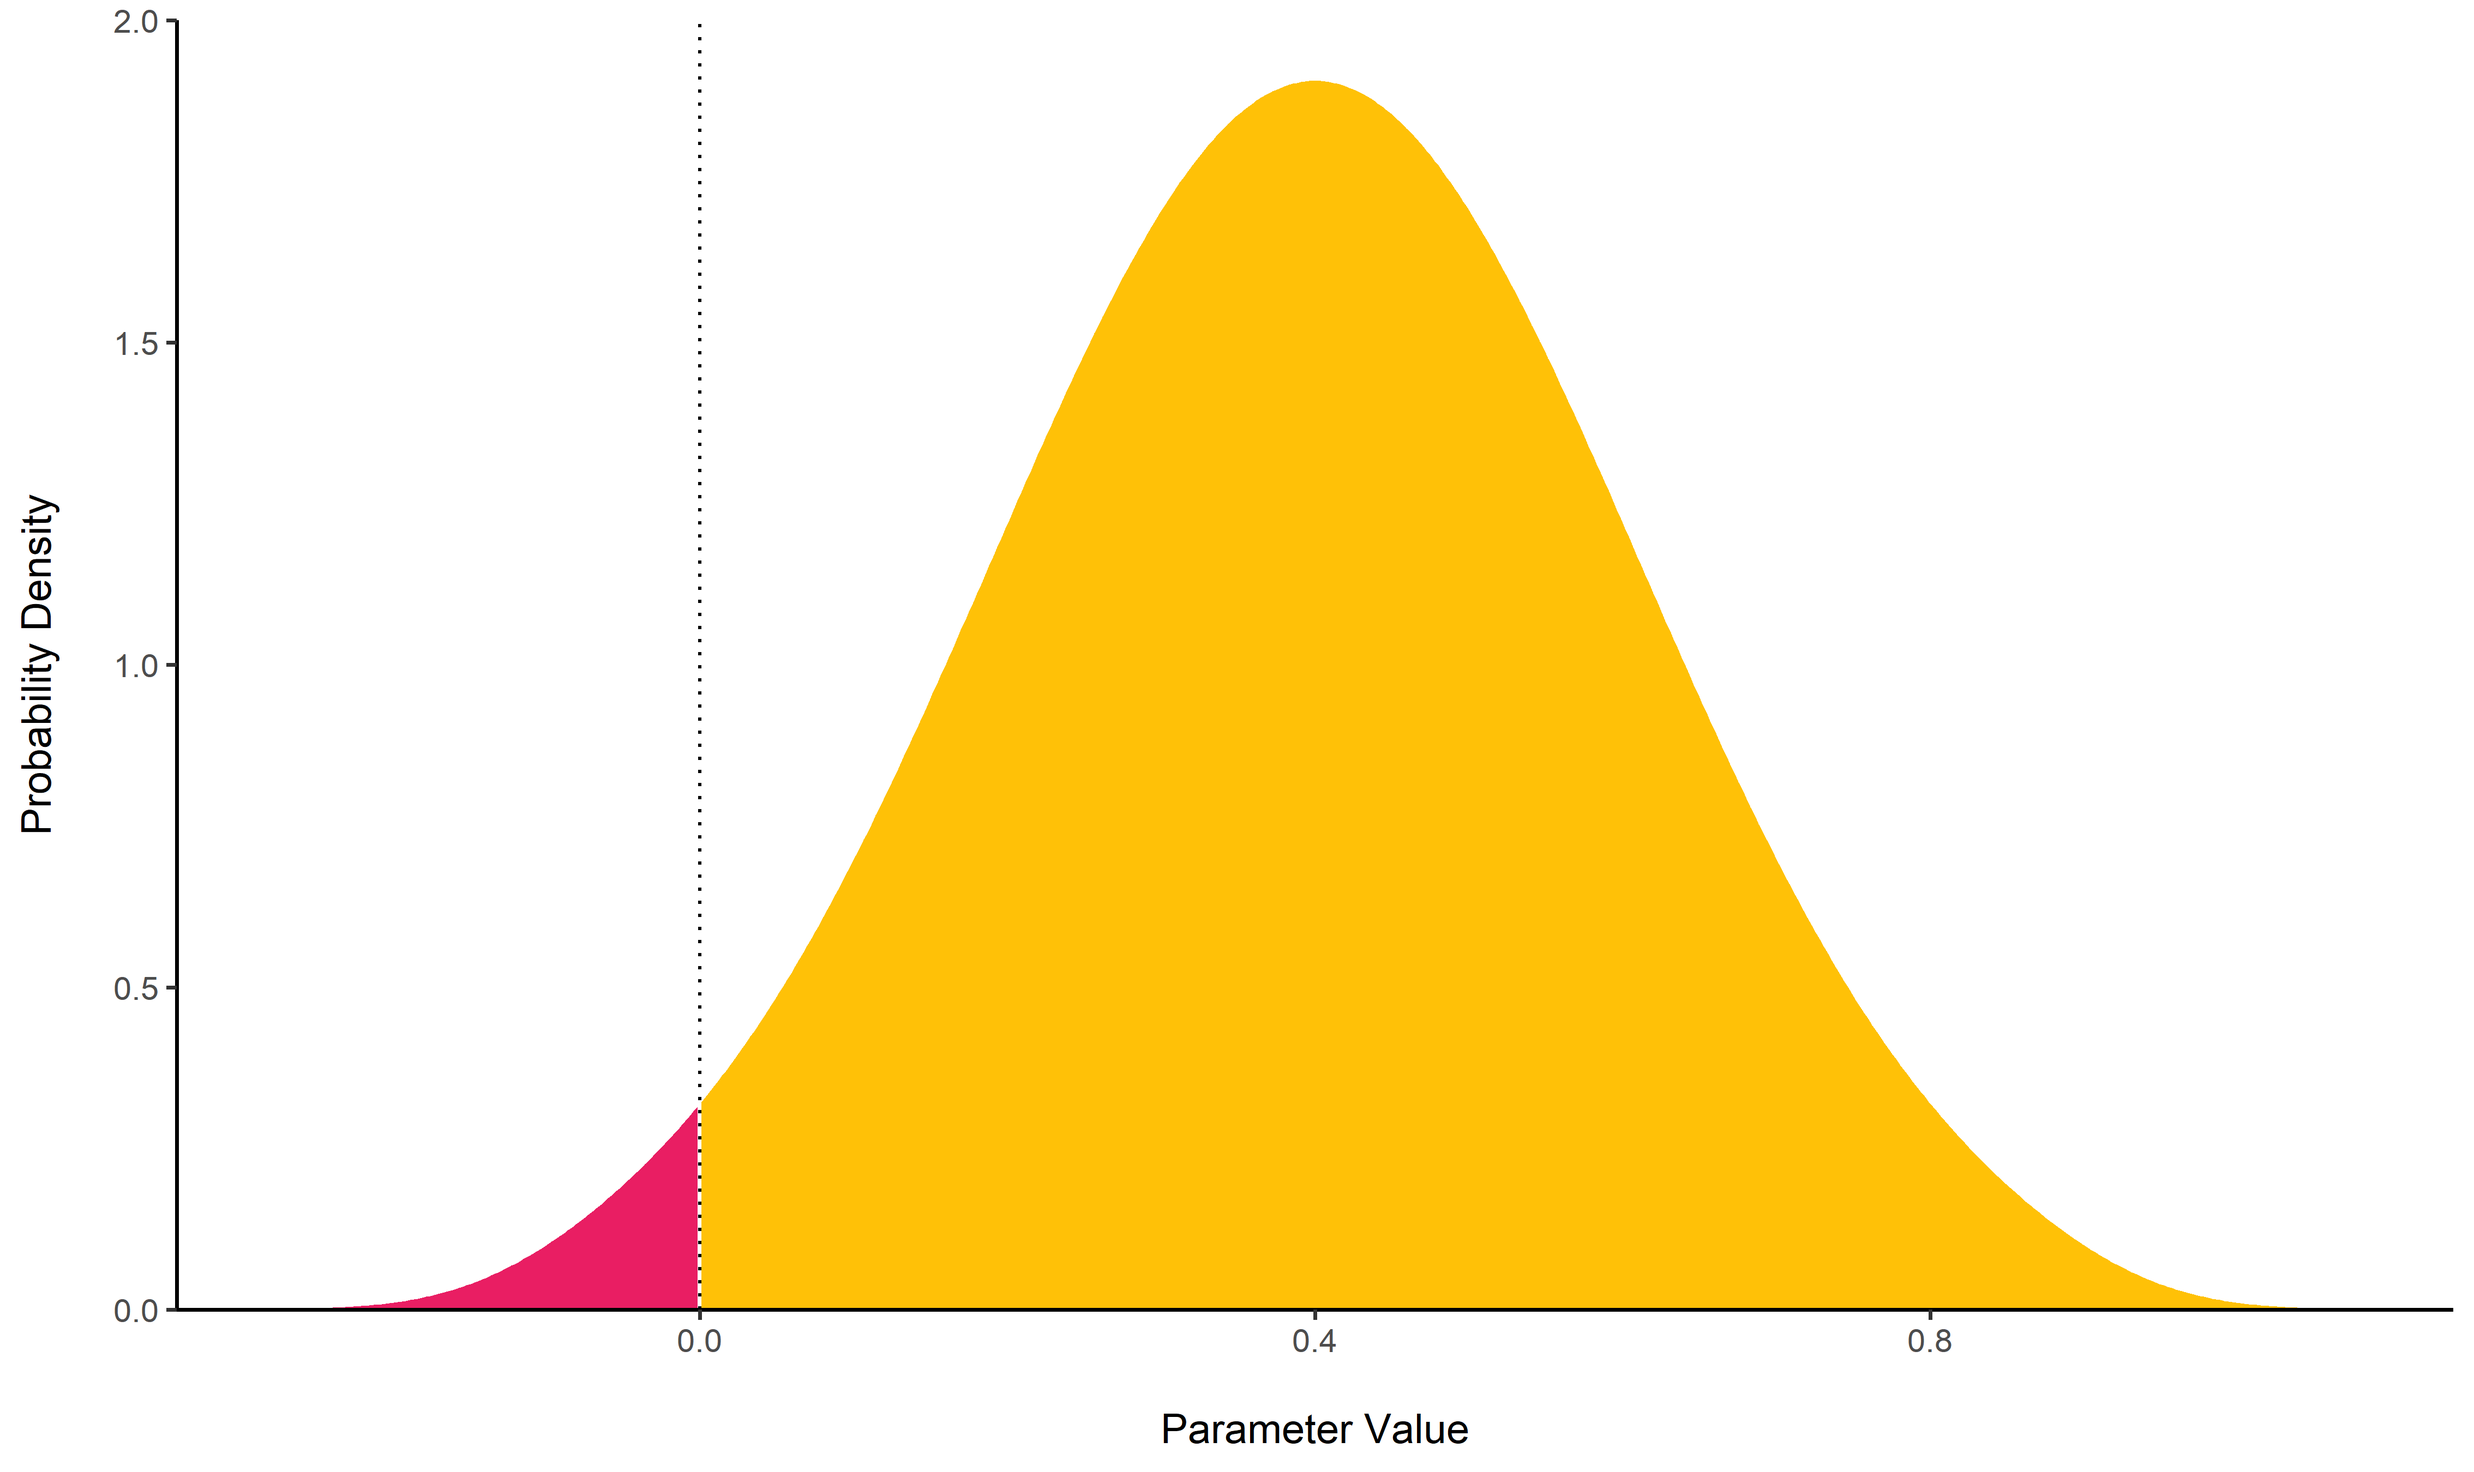
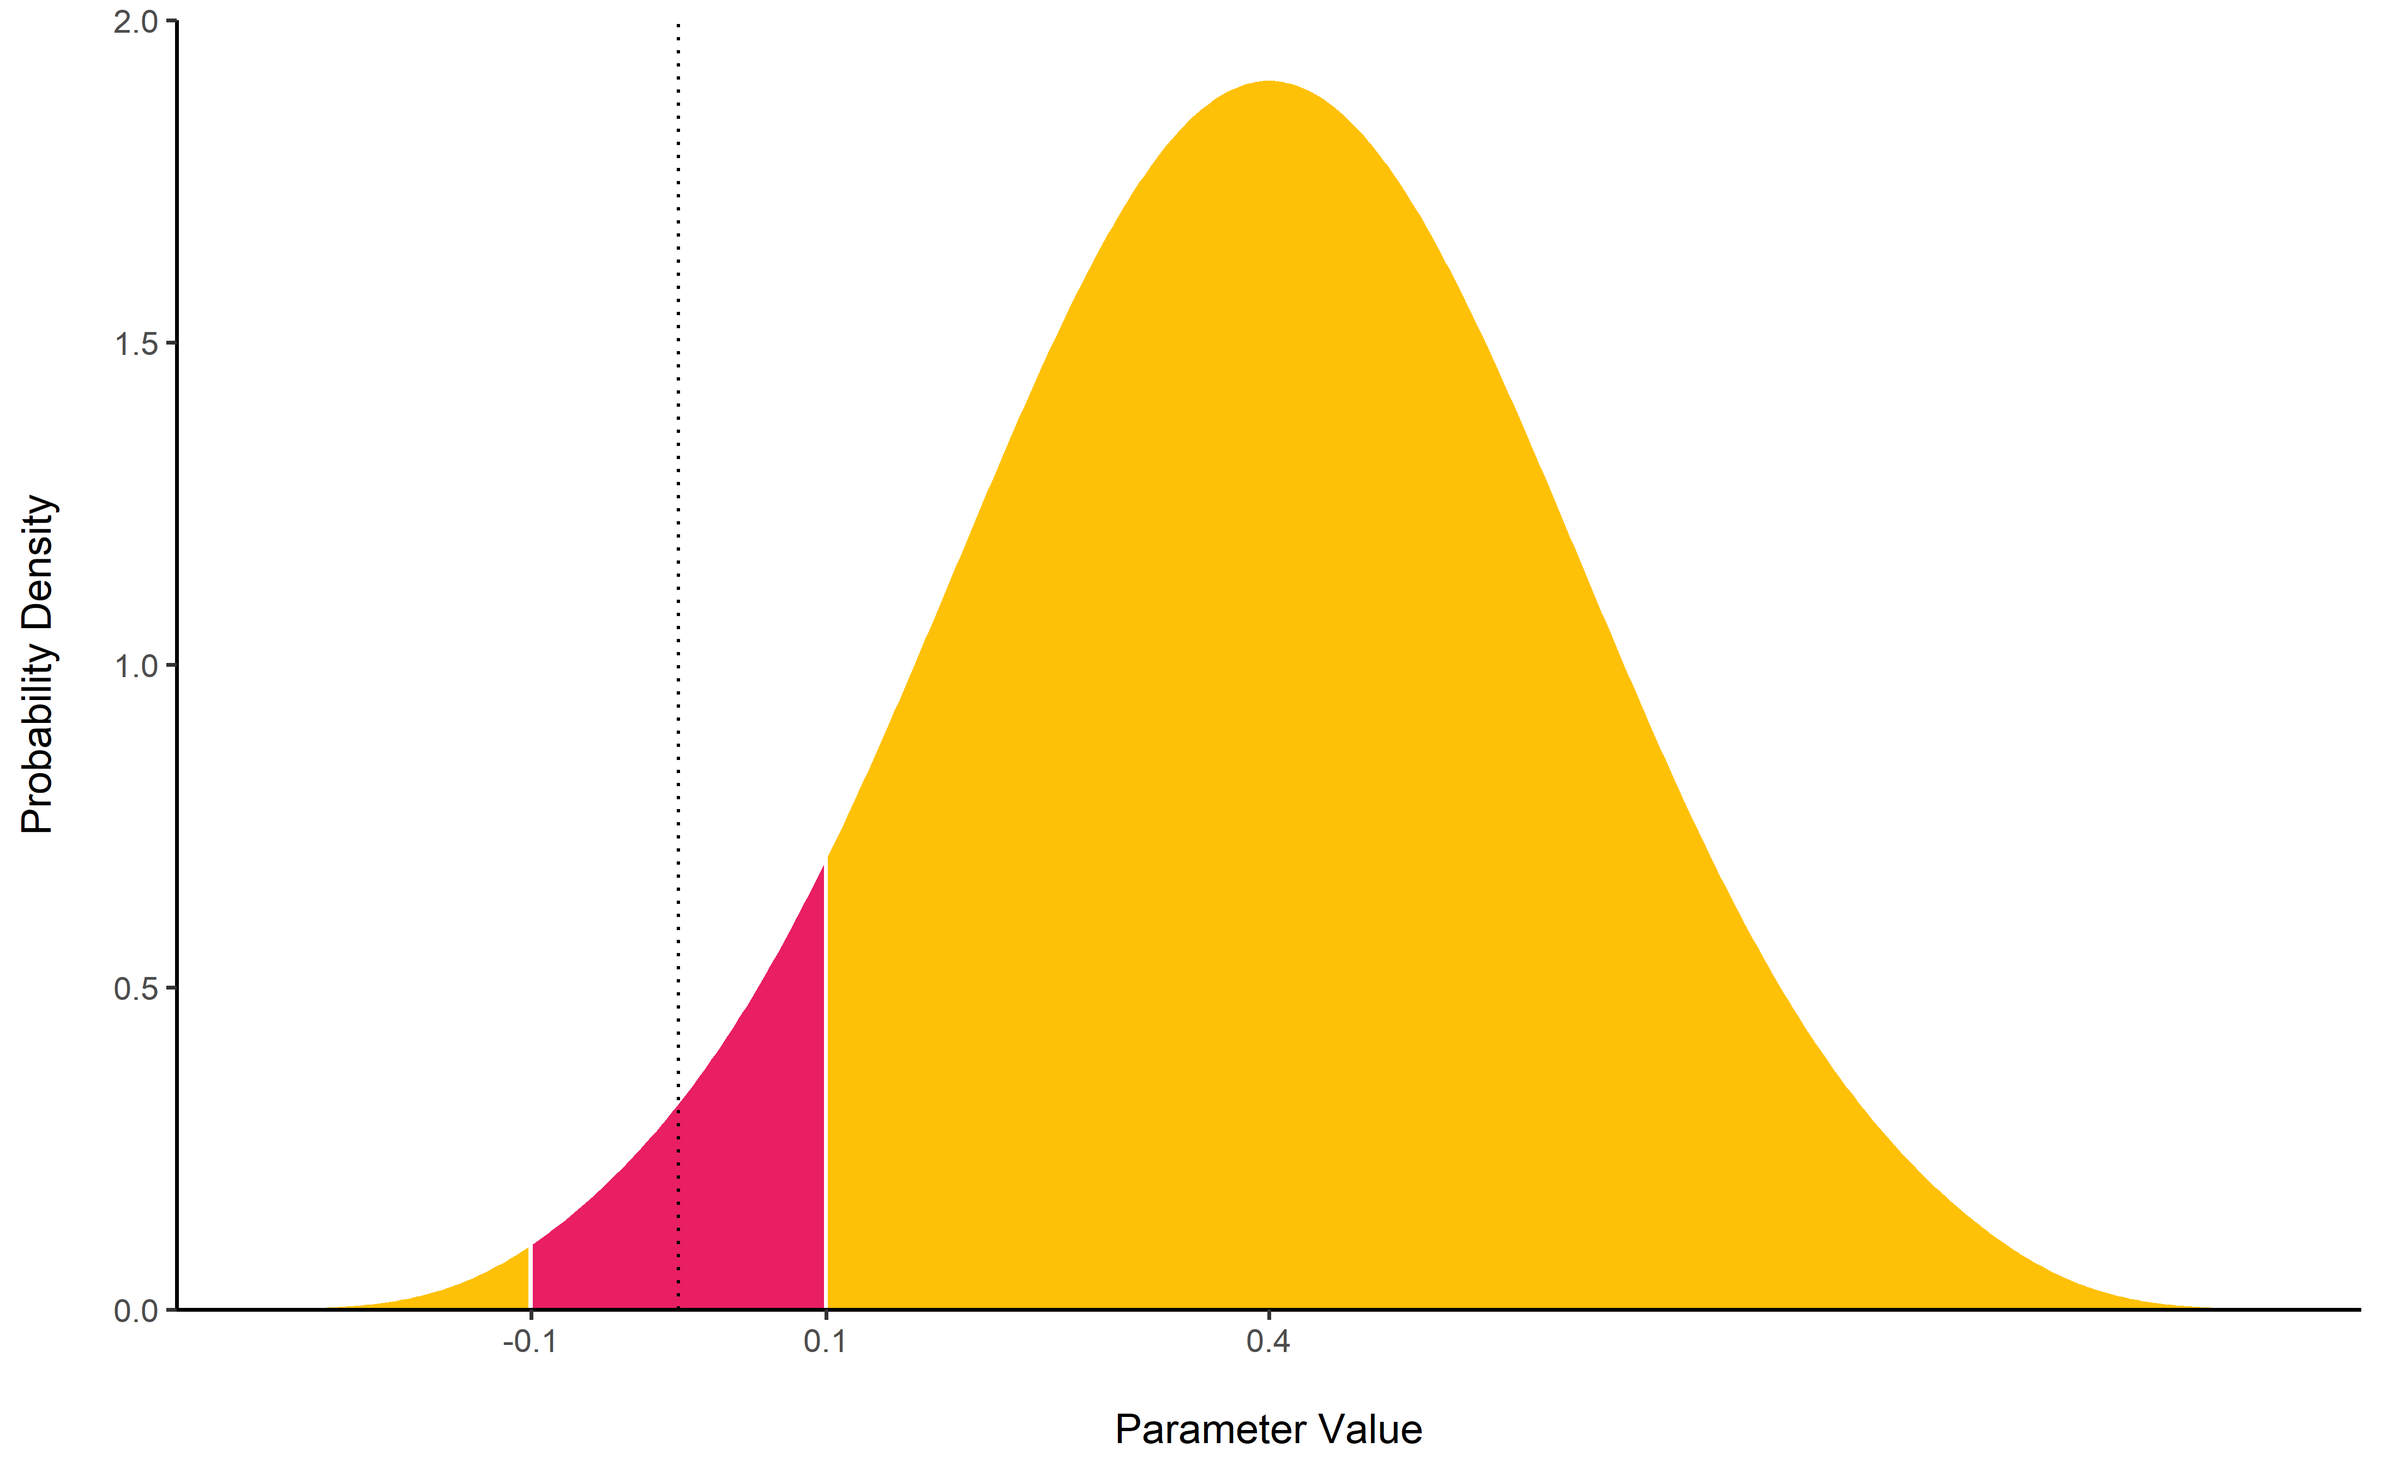
first version of new README
started with the README #262

diff --git a/README.md b/README.md
@@ -79,11 +79,50 @@ check-out these vignettes:
 
 # Features
 
-The following figures are meant to illustrate the (statistical) concepts
-behind the functions. However, for most functions, `plot()`-methods are
-available from the [see-package](http://easystats.github.io/see).
+In the Bayesian framework, parameters are estimated in a probabilistic
+fashion as *distributions*. These distributions can be summarised and
+described by **reporting 4 types of indices**:
 
-## Describing the Posterior Distribution
+  - [**Centrality**](https://easystats.github.io/bayestestR/articles/indicesEstimationComparison.html)
+      - `mean()`, `median()` or
+        [**`map_estimate()`**](https://easystats.github.io/bayestestR/reference/map_estimate.html)
+        for an approximation of the mode.
+      - [**`point_estimate()`**](https://easystats.github.io/bayestestR/reference/point_estimate.html)
+        can be used to get them at once and can be run on models.
+  - [**Uncertainty**](https://easystats.github.io/bayestestR/articles/credible_interval.html)
+      - [**`hdi()`**](https://easystats.github.io/bayestestR/reference/hdi.html)
+        for *Highest Density Interval (HDI)* or
+        [**`eti()`**](https://easystats.github.io/bayestestR/reference/eti.html)
+        for *Equal-Tailed Intervals (ETI)*.
+      - [**`ci()`**](https://easystats.github.io/bayestestR/reference/ci.html)
+        for a more general method for Confidence and Credible Intervals
+        (CI).
+  - [**Effect
+    Existence**](https://easystats.github.io/bayestestR/articles/indicesExistenceComparison.html):
+    whether an effect is not different from 0.
+      - [**`p_direction()`**](https://easystats.github.io/bayestestR/reference/p_direction.html)
+        for a Bayesian equivalent of the frequentist *p*-value (see
+        [Makowski et
+        al., 2019](https://doi.org/10.3389/fpsyg.2019.02767))
+      - [**`p_pointnull()`**](https://easystats.github.io/bayestestR/reference/p_map.html)
+        represents the odds of null hypothesis (*h0 = 0*) compared to
+        the most likely hypothesis (the MAP).
+      - [**`bf_pointnull()`**](https://easystats.github.io/bayestestR/reference/bayesfactor_parameters.html)
+        for a classic *Bayes Factor (BF)* assessing the likelihood of
+        effect presence against its absence (*h0 = 0*).
+  - [**Effect
+    Significance**](https://easystats.github.io/bayestestR/articles/indicesExistenceComparison.html):
+    whether the effect can be considered as non-negligible.
+      - [**`p_rope()`**](https://easystats.github.io/bayestestR/reference/p_rope.html)
+        is the probability of the effect falling inside a [*Region of
+        Practical Equivalence
+        (ROPE)*](https://easystats.github.io/bayestestR/articles/region_of_practical_equivalence.html).
+      - [**`bf_rope()`**](https://easystats.github.io/bayestestR/reference/bayesfactor_parameters.html)
+        computes a Bayes factor against the null as defined by a region
+        (the ROPE).
+      - [**`p_significance()`**](https://easystats.github.io/bayestestR/reference/p_significance.html)
+        that combines a region of equivalence and the probability of
+        direction.
 
 [**`describe_posterior()`**](https://easystats.github.io/bayestestR/reference/describe_posterior.html)
 is the master function with which you can compute all of the indices
@@ -92,32 +131,45 @@ cited below at once.
 ``` r
 describe_posterior(rnorm(1000))
 ##   Parameter Median CI CI_low CI_high   pd ROPE_CI ROPE_low ROPE_high
-## 1 Posterior  0.037 89   -1.5     1.7 0.52      89     -0.1       0.1
+## 1 Posterior -0.021 89   -1.6     1.5 0.50      89     -0.1       0.1
 ##   ROPE_Percentage
-## 1           0.092
+## 1            0.11
 ```
+
+*bayestestR* also includes [**many other
+features**](https://easystats.github.io/bayestestR/reference/index.html)
+useful for your Bayesian analsyes. Here are some more examples:
 
 ## Point-estimates
 
-### MAP Estimate
-
-[**`map_estimate()`**](https://easystats.github.io/bayestestR/reference/map_estimate.html)
-find the **Highest Maximum A Posteriori (MAP)** estimate of a posterior,
-*i.e.*, the value associated with the highest probability density (the
-“peak” of the posterior distribution). In other words, it is an
-estimation of the *mode* for continuous parameters.
-
 ``` r
-posterior <- distribution_normal(100, 0.4, 0.2)
-map_estimate(posterior)
-## MAP = 0.40
+library(bayestestR)
+
+posterior <- distribution_gamma(10000, 1.5)  # Generate a skewed distribution
+centrality <- point_estimate(posterior)  # Get indices of centrality
+centrality
+## # Point Estimates
+## 
+##  Median Mean  MAP
+##     1.2  1.5 0.51
 ```
 
-![](man/figures/unnamed-chunk-5-1.png)<!-- -->
+As for other [**easystats**](https://github.com/easystats) packages,
+`plot()` methods are available from the
+[**see**](http://easystats.github.io/see) package for many functions:
 
-## Uncertainty
+![](man/figures/unnamed-chunk-6-1.png)<!-- -->
 
-### Highest Density Interval (HDI) and Equal-Tailed Interval (ETI)
+While the **median** and the **mean** are available through base R
+functions,
+[**`map_estimate()`**](https://easystats.github.io/bayestestR/reference/map_estimate.html)
+in *bayestestR* can be used to directly find the **Highest Maximum A
+Posteriori (MAP)** estimate of a posterior, *i.e.*, the value associated
+with the highest probability density (the “peak” of the posterior
+distribution). In other words, it is an estimation of the *mode* for
+continuous parameters.
+
+## Uncertainty (CI)
 
 [**`hdi()`**](https://easystats.github.io/bayestestR/reference/hdi.html)
 computes the **Highest Density Interval (HDI)** of a posterior
@@ -156,9 +208,39 @@ eti(posterior, ci = .89)
 ##  [0.42, 7.27]
 ```
 
-![](man/figures/unnamed-chunk-7-1.png)<!-- -->
+![](man/figures/unnamed-chunk-8-1.png)<!-- -->
 
-## Null-Hypothesis Significance Testing (NHST)
+## Existence and Significance Testing
+
+### Probability of Direction (*p*d)
+
+[**`p_direction()`**](https://easystats.github.io/bayestestR/reference/p_direction.html)
+computes the **Probability of Direction** (***p*d**, also known as the
+Maximum Probability of Effect - *MPE*). It varies between 50% and 100%
+(*i.e.*, `0.5` and `1`) and can be interpreted as the probability
+(expressed in percentage) that a parameter (described by its posterior
+distribution) is strictly positive or negative (whichever is the most
+probable). It is mathematically defined as the proportion of the
+posterior distribution that is of the median’s sign. Although
+differently expressed, this index is fairly similar (*i.e.*, is strongly
+correlated) to the frequentist ***p*-value**.
+
+**Relationship with the p-value**: In most cases, it seems that the *pd*
+corresponds to the frequentist one-sided *p*-value through the formula
+`p-value = (1-pd/100)` and to the two-sided *p*-value (the most commonly
+reported) through the formula `p-value = 2*(1-pd/100)`. Thus, a `pd` of
+`95%`, `97.5%` `99.5%` and `99.95%` corresponds approximately to a
+two-sided *p*-value of respectively `.1`, `.05`, `.01` and `.001`. See
+the [*reporting
+guidelines*](https://easystats.github.io/bayestestR/articles/guidelines.html).
+
+``` r
+posterior <- distribution_normal(100, 0.4, 0.2)
+p_direction(posterior)
+## pd = 98.00%
+```
+
+![](man/figures/unnamed-chunk-10-1.png)<!-- -->
 
 ### ROPE
 
@@ -197,56 +279,6 @@ rope(posterior, range = c(-0.1, 0.1))
 ##       1.11 %
 ```
 
-![](man/figures/unnamed-chunk-9-1.png)<!-- -->
-
-### Equivalence test
-
-[**`equivalence_test()`**](https://easystats.github.io/bayestestR/reference/equivalence_test.html)
-is a **Test for Practical Equivalence** based on the *“HDI+ROPE decision
-rule”* (Kruschke, 2018) to check whether parameter values should be
-accepted or rejected against an explicitly formulated “null hypothesis”
-(*i.e.*, a
-[ROPE](https://easystats.github.io/bayestestR/reference/rope.html)).
-
-``` r
-posterior <- distribution_normal(100, 0.4, 0.2)
-equivalence_test(posterior, range = c(-0.1, 0.1))
-## # Test for Practical Equivalence
-## 
-##   ROPE: [-0.10 0.10]
-## 
-##         H0 inside ROPE     89% HDI
-##  Undecided      1.11 % [0.09 0.71]
-```
-
-### Probability of Direction (*p*d)
-
-[**`p_direction()`**](https://easystats.github.io/bayestestR/reference/p_direction.html)
-computes the **Probability of Direction** (***p*d**, also known as the
-Maximum Probability of Effect - *MPE*). It varies between 50% and 100%
-(*i.e.*, `0.5` and `1`) and can be interpreted as the probability
-(expressed in percentage) that a parameter (described by its posterior
-distribution) is strictly positive or negative (whichever is the most
-probable). It is mathematically defined as the proportion of the
-posterior distribution that is of the median’s sign. Although
-differently expressed, this index is fairly similar (*i.e.*, is strongly
-correlated) to the frequentist ***p*-value**.
-
-**Relationship with the p-value**: In most cases, it seems that the *pd*
-corresponds to the frequentist one-sided *p*-value through the formula
-`p-value = (1-pd/100)` and to the two-sided *p*-value (the most commonly
-reported) through the formula `p-value = 2*(1-pd/100)`. Thus, a `pd` of
-`95%`, `97.5%` `99.5%` and `99.95%` corresponds approximately to a
-two-sided *p*-value of respectively `.1`, `.05`, `.01` and `.001`. See
-the [*reporting
-guidelines*](https://easystats.github.io/bayestestR/articles/guidelines.html).
-
-``` r
-posterior <- distribution_normal(100, 0.4, 0.2)
-p_direction(posterior)
-## pd = 98.00%
-```
-
 ![](man/figures/unnamed-chunk-12-1.png)<!-- -->
 
 ### Bayes Factor
@@ -275,7 +307,7 @@ bayesfactor_parameters(posterior, prior, direction = "two-sided", null = 0)
 ## # Bayes Factor (Savage-Dickey density ratio)
 ## 
 ##    BF
-##  2.04
+##  1.48
 ## 
 ## * Evidence Against The Null: [0]
 ```
@@ -291,23 +323,6 @@ from or closer to the null.*</sup>
 
 For more info, see [the Bayes factors
 vignette](https://easystats.github.io/bayestestR/articles/bayes_factors.html).
-
-### MAP-based *p*-value
-
-[**`p_map()`**](https://easystats.github.io/bayestestR/reference/p_map.html)
-computes a Bayesian equivalent of the p-value, related to the odds that
-a parameter (described by its posterior distribution) has against the
-null hypothesis (*h0*) using Mills’ (2014, 2017) *Objective Bayesian
-Hypothesis Testing* framework. It corresponds to the density value at 0
-divided by the density at the Maximum A Posteriori (MAP).
-
-``` r
-posterior <- distribution_normal(100, 0.4, 0.2)
-p_map(posterior)
-## p (MAP) = 0.193
-```
-
-![](man/figures/unnamed-chunk-16-1.png)<!-- -->
 
 ## Utilities
 
